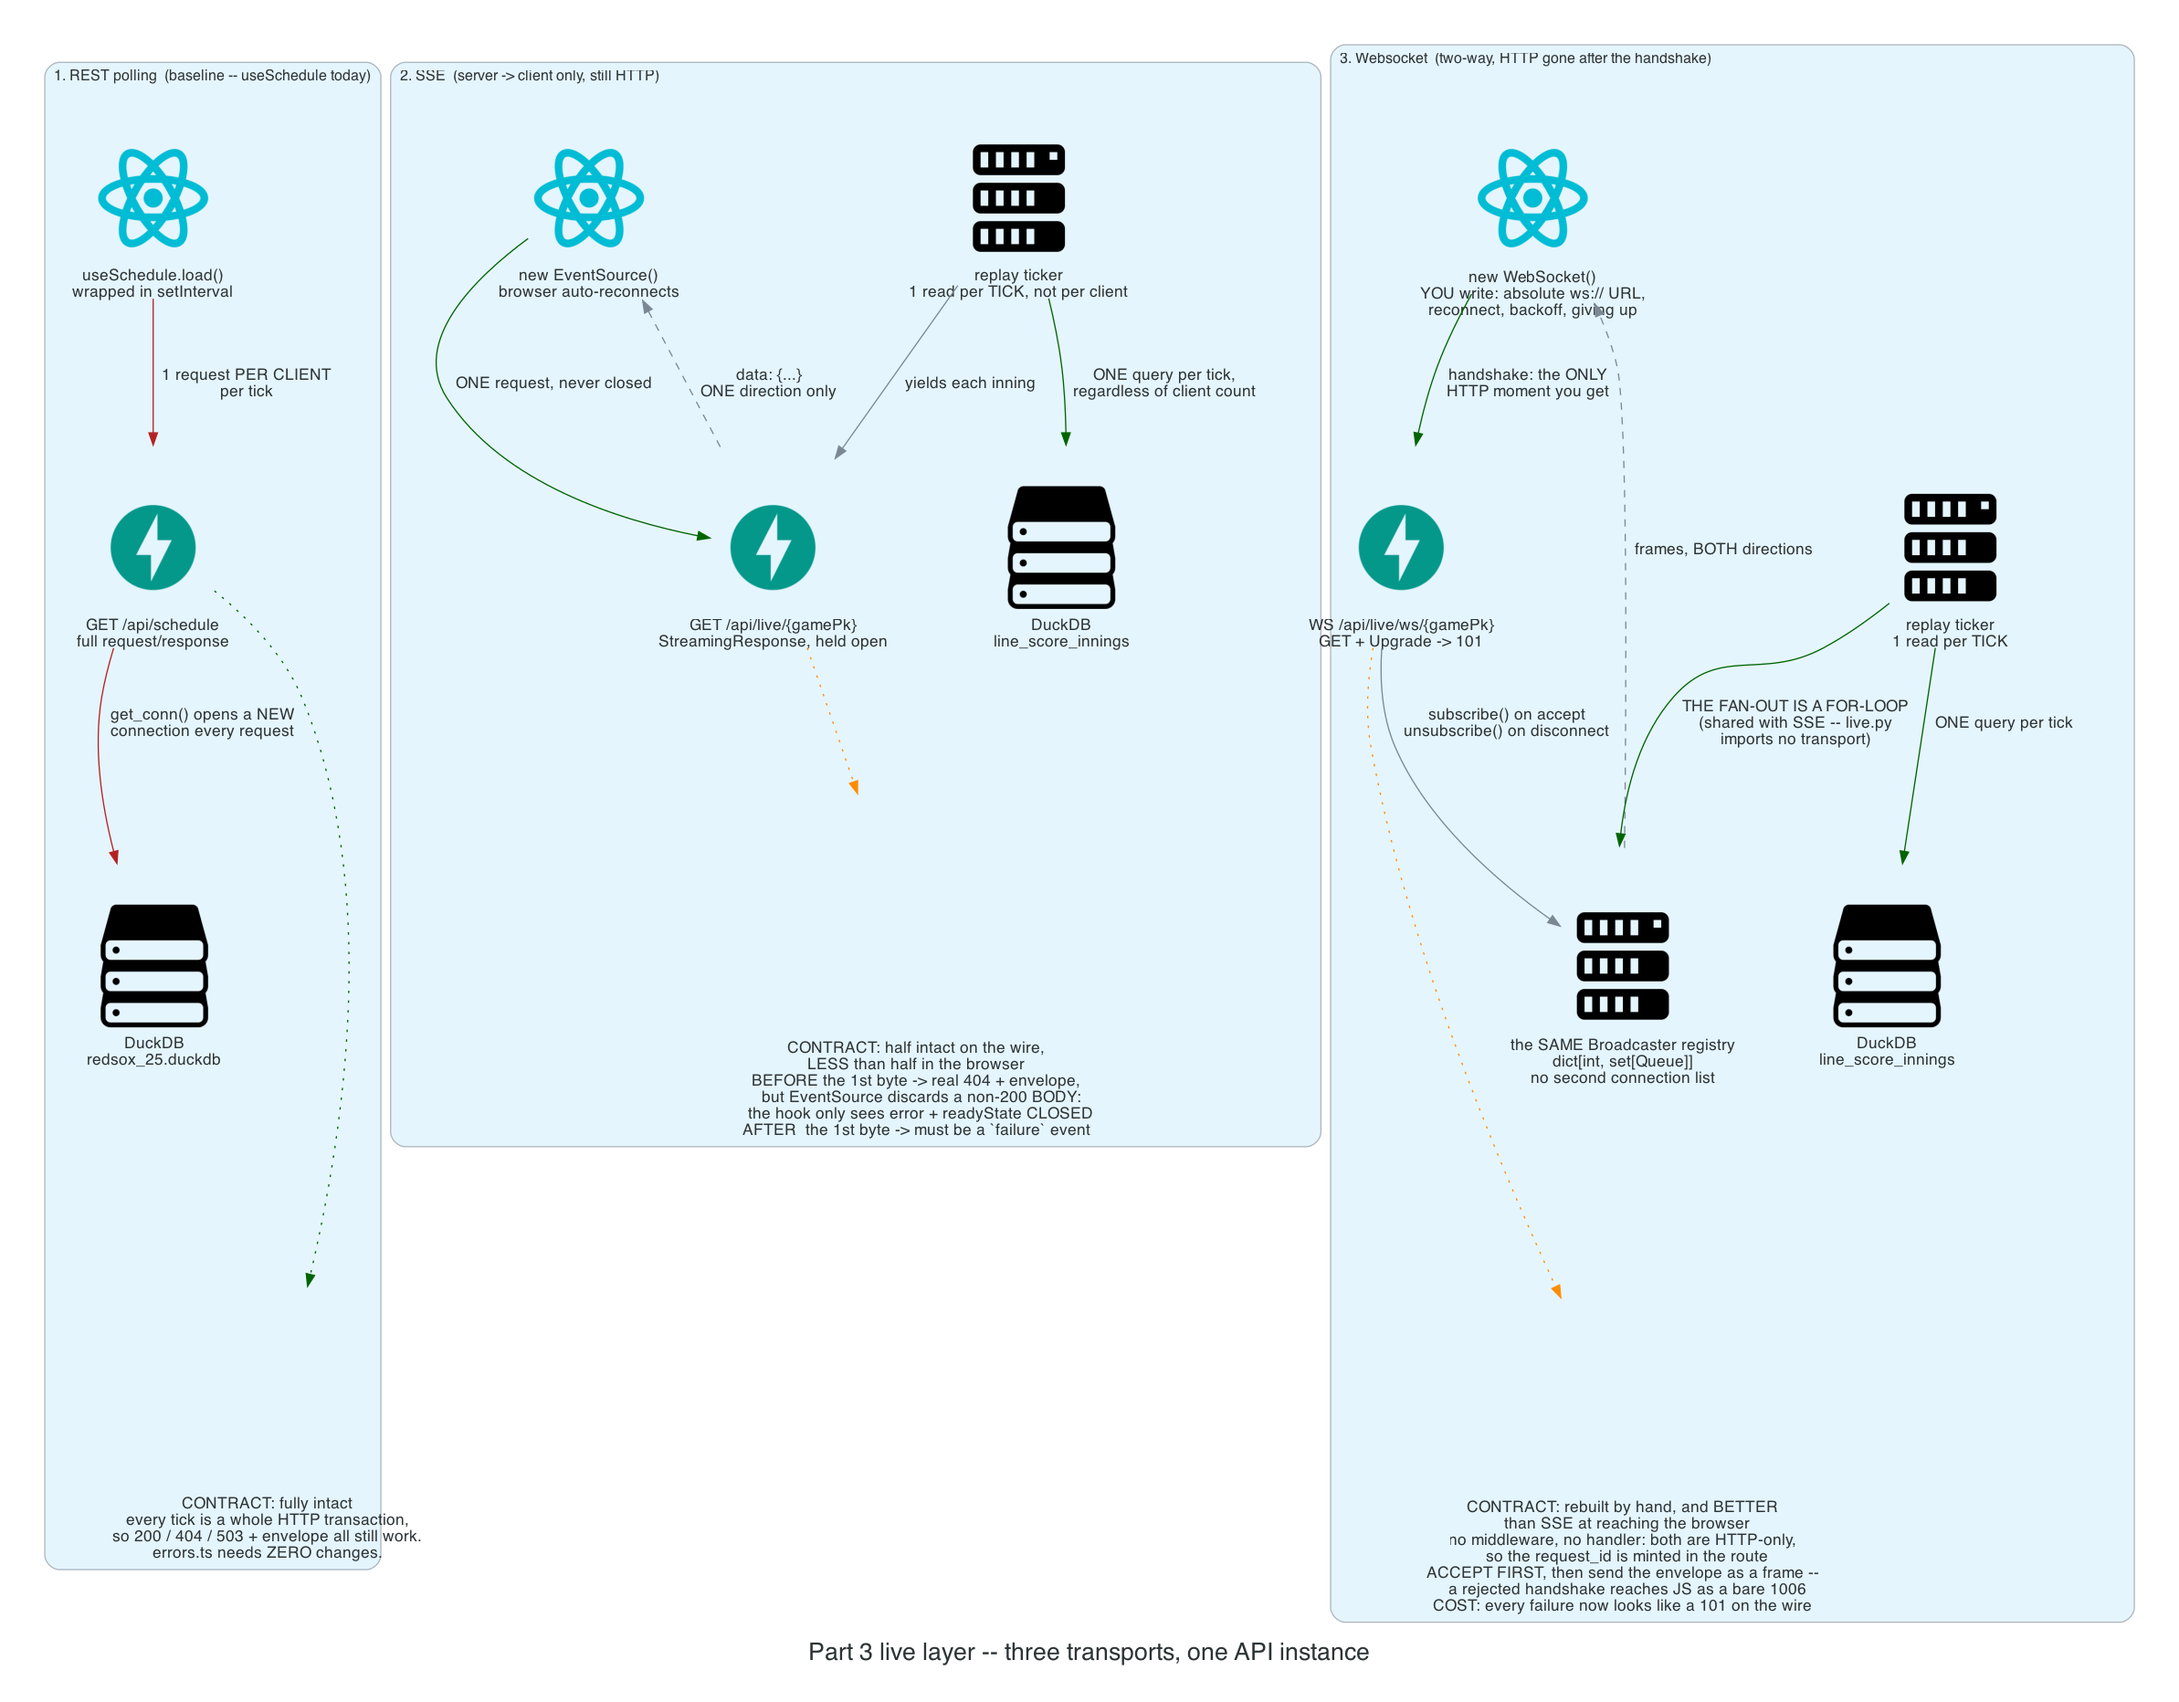
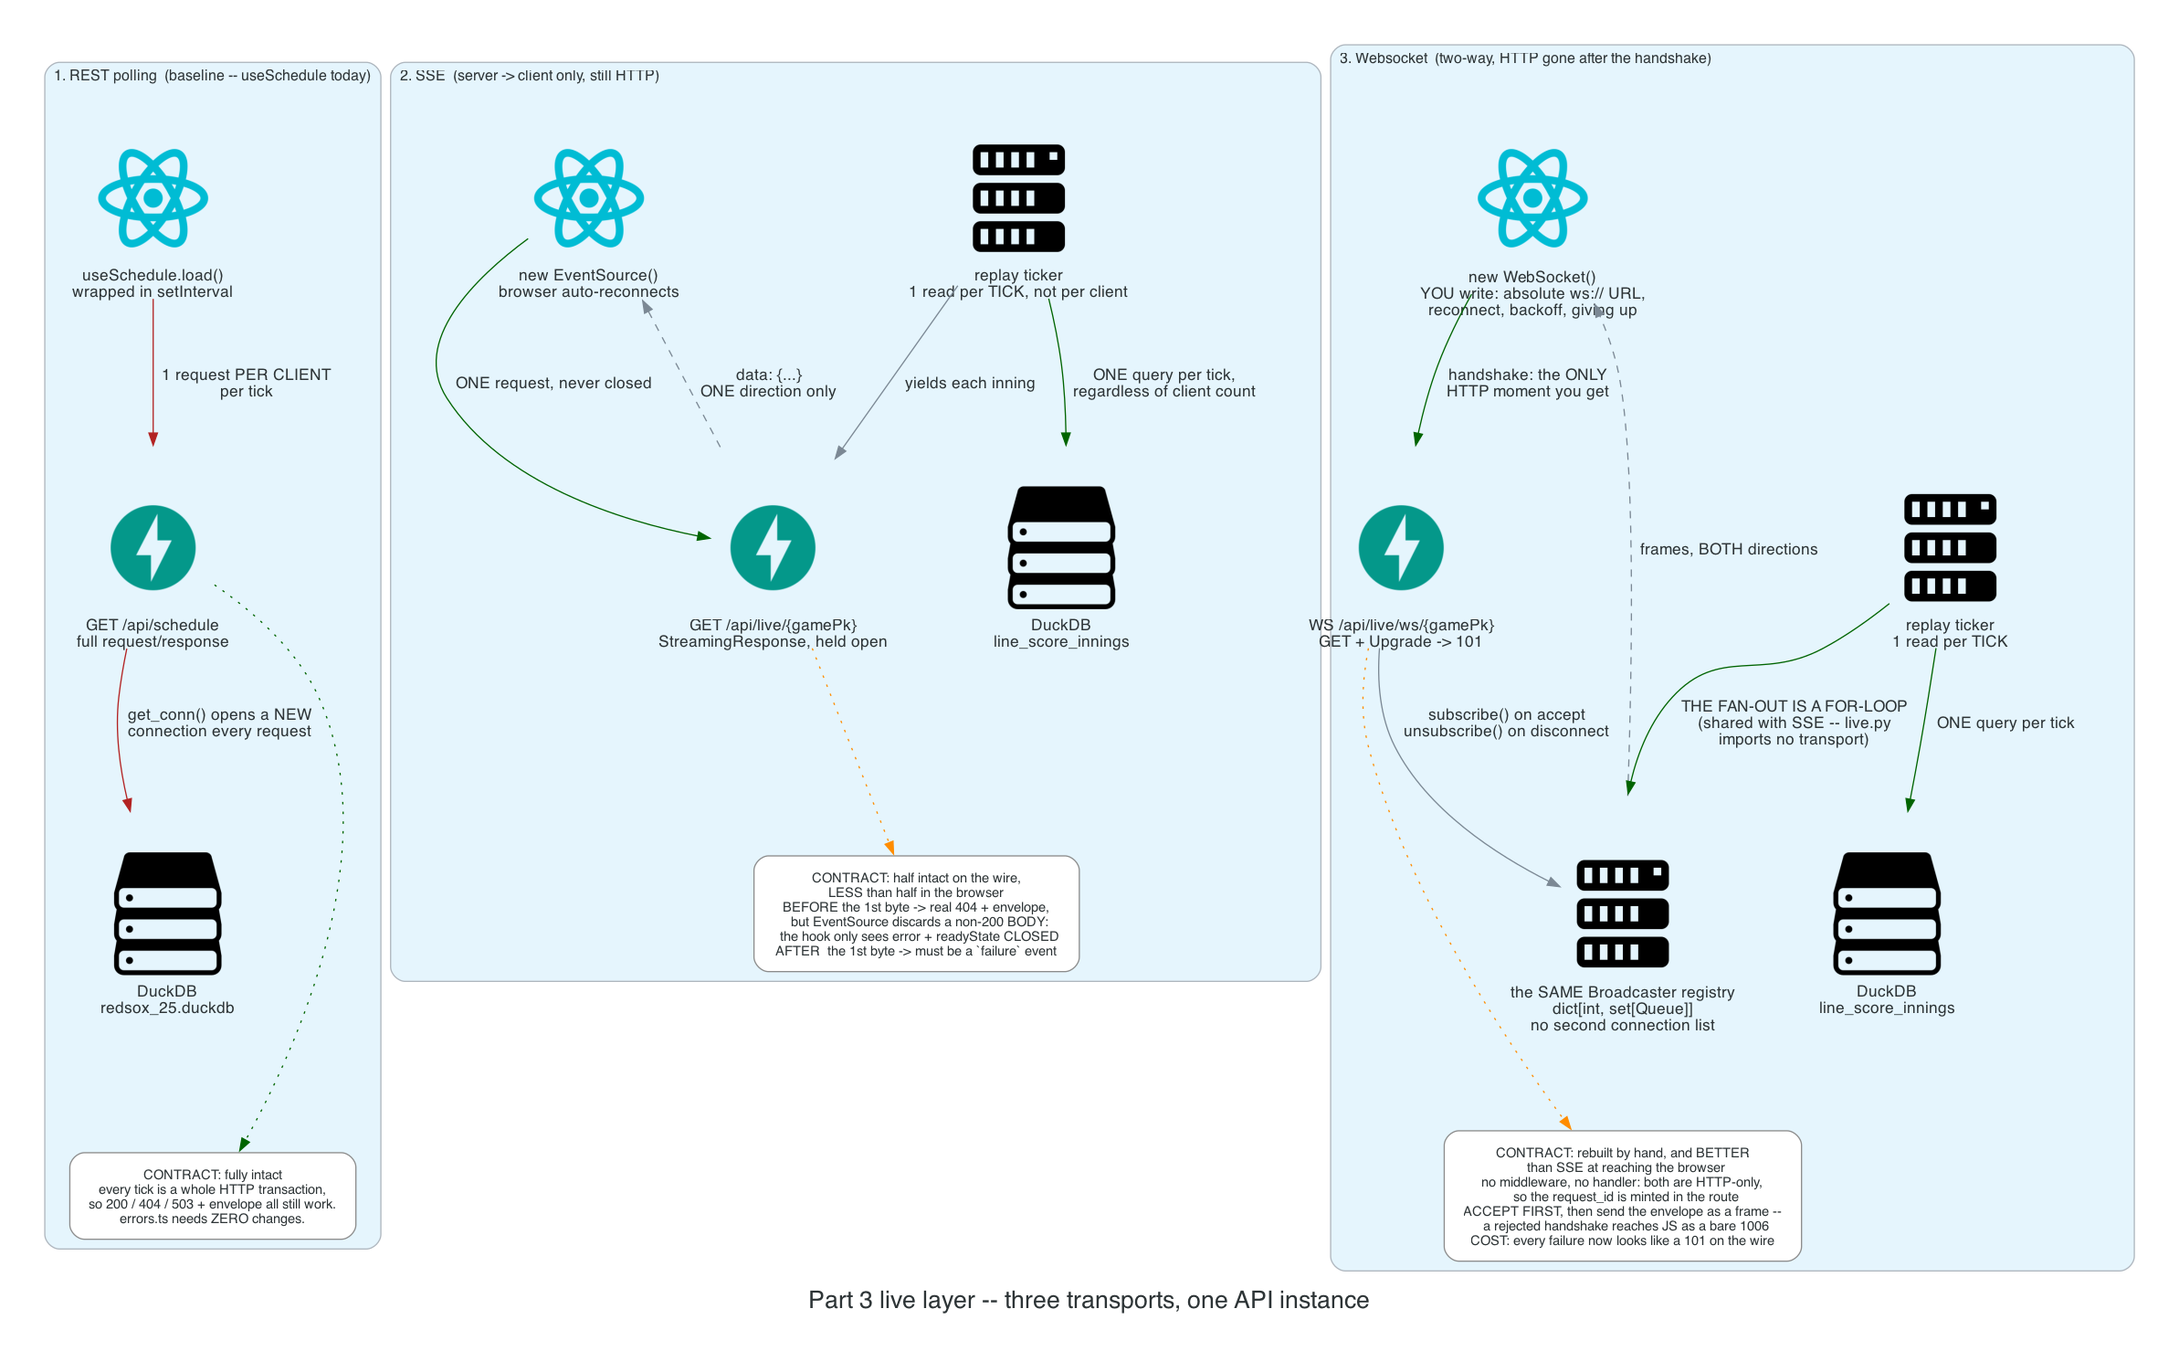
docs updated

diff --git a/docs/diagrams/live_layer.py b/docs/diagrams/live_layer.py
@@ -11,8 +11,7 @@ Needs graphviz on PATH (`brew install graphviz`).
 
 from pathlib import Path
 
-from diagrams import Cluster, Diagram, Edge
-from diagrams.generic.blank import Blank
+from diagrams import Cluster, Diagram, Edge, Node
 from diagrams.generic.storage import Storage
 from diagrams.onprem.client import Client
 from diagrams.onprem.compute import Server
@@ -30,6 +29,32 @@ COST = "firebrick"
 KEEPS = "darkgreen"
 LOSES = "darkorange"
 
+
+# Blank() is the obvious node for a text-only note and does not work: it has an
+# icon, so diagrams gives it shape="none" and a transparent 1.9in image, and the
+# edge lands on the top of that invisible box with the words drawn near its
+# bottom -- an arrow pointing at nothing. A bare Node has _icon = None.
+def Note(text: str) -> Node:
+    """A visible text box, sized to its own text. Every attribute here overrides
+    one of Diagram._default_node_attrs, which pins nodes to a fixed 1.4in square
+    and anchors labels to the bottom edge -- right for an icon with a caption,
+    wrong for a box that is only caption."""
+    return Node(
+        label=text,
+        shape="box",
+        style="rounded,filled",
+        fillcolor="white",
+        color="gray55",
+        fontsize="11",
+        margin="0.22,0.16",
+        fixedsize="false",
+        # Minimums once fixedsize is off, so the label decides.
+        width="0.1",
+        height="0.1",
+        labelloc="c",
+    )
+
+
 GRAPH_ATTR = {
     "fontsize": "20",
     "bgcolor": "white",
@@ -46,7 +71,7 @@ GRAPH_ATTR = {
 def transports() -> None:
     """The three paths side by side. Read each column top to bottom.
 
-    Long-form commentary lives in Blank note nodes rather than edge labels --
+    Long-form commentary lives in Note() boxes rather than edge labels --
     graphviz routes labelled edges around each other and the text ends up
     orbiting the picture instead of sitting next to what it describes.
     """
@@ -63,7 +88,7 @@ def transports() -> None:
             poll_ui = React("useSchedule.load()\nwrapped in setInterval")
             poll_api = FastAPI("GET /api/schedule\nfull request/response")
             poll_db = Storage("DuckDB\nredsox_25.duckdb")
-            poll_note = Blank(
+            poll_note = Note(
                 "CONTRACT: fully intact\n"
                 "every tick is a whole HTTP transaction,\n"
                 "so 200 / 404 / 503 + envelope all still work.\n"
@@ -94,7 +119,7 @@ def transports() -> None:
             sse_api = FastAPI("GET /api/live/{gamePk}\nStreamingResponse, held open")
             sse_tick = Server("replay ticker\n1 read per TICK, not per client")
             sse_db = Storage("DuckDB\nline_score_innings")
-            sse_note = Blank(
+            sse_note = Note(
                 "CONTRACT: half intact on the wire,\n"
                 "LESS than half in the browser\n"
                 "BEFORE the 1st byte -> real 404 + envelope,\n"
@@ -132,7 +157,7 @@ def transports() -> None:
             )
             ws_tick = Server("replay ticker\n1 read per TICK")
             ws_db = Storage("DuckDB\nline_score_innings")
-            ws_note = Blank(
+            ws_note = Note(
                 "CONTRACT: rebuilt by hand, and BETTER\n"
                 "  than SSE at reaching the browser\n"
                 "no middleware, no handler: both are HTTP-only,\n"
